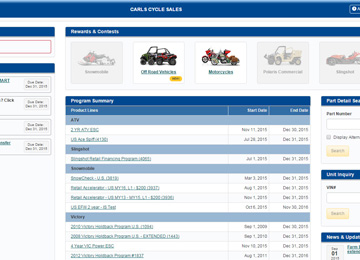
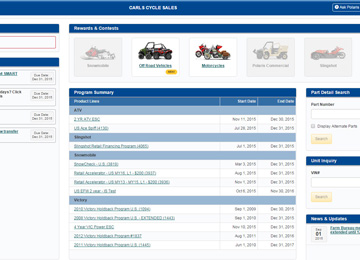
Add Medtronic Global Conventions to portfolio

diff --git a/app/index.html b/app/index.html
@@ -172,11 +172,11 @@
                                     <i class="fa fa-plus fa-3x"></i>
                                 </div>
                             </div>
-                            <img src="img/portfolio/treehouse.png" class="img-responsive" alt="">
+                            <img src="img/portfolio/global-conventions-home-desktop-preview.jpg" class="img-responsive" alt="">
                         </a>
                         <div class="portfolio-caption">
-                            <h5>Treehouse</h5>
-                            <p class="text-muted">Website Design</p>
+                            <h5>Global Conventions - Event Registration</h5>
+                            <p class="text-muted">Web Application</p>
                         </div>
                     </div>
                 </div>
@@ -523,6 +523,7 @@
                             <h2>PARTS, GARMENTS &amp; ACCESSORIES (PG&amp;A) </h2>
                             <p class="item-intro text-muted">Dealer-facing web application.</p>
                             <img class="img-responsive img-centered img-detailed" src="img/portfolio/pga-order-by-profile-page-2.jpg" alt="">
+                            <img class="img-responsive img-centered img-detailed" src="img/portfolio/pga-review-your-order-page-3.jpg" alt="">
                             <div class="row">
                                 <div class="col-md-12">
                                     <img class="img-responsive pull-right" src="img/portfolio/pga-order-by-profile-page-2-tablet.jpg" alt="">
@@ -555,11 +556,20 @@
                     <div class="col-lg-8 col-lg-offset-2">
                         <div class="modal-body">
                             <!-- Project Details Go Here -->
-                            <h2>Project Name</h2>
+                            <h2>Global Conventions - Event Registration</h2>
                             <p class="item-intro text-muted">Lorem ipsum dolor sit amet consectetur.</p>
-                            <img class="img-responsive img-centered" src="img/portfolio/treehouse-preview.png" alt="">
-                            <p>Treehouse is a free PSD web template built by <a href="https://www.behance.net/MathavanJaya">Mathavan Jaya</a>. This is bright and spacious design perfect for people or startup companies looking to showcase their apps or other projects.</p>
-                            <p>You can download the PSD template in this portfolio sample item at <a href="http://freebiesxpress.com/gallery/treehouse-free-psd-web-template/">FreebiesXpress.com</a>.</p>
+                            <img class="img-responsive img-centered img-detailed" src="img/portfolio/global-conventions-home-desktop.jpg" alt="">
+                            <img class="img-responsive img-centered" src="img/portfolio/global-conventions-home-ipad-iphone.jpg" alt="">
+                            <div class="row">
+                                <div class="col-md-12">
+                                    <p>Internal web application used by over 46,000 Medtronic employees worldwide to register for conventions and events. </p>
+                                    <ul class="list-inline">
+                                        <!-- <li>Date: July 2014</li> -->
+                                        <li>Client: Medtronic</li>
+                                        <li>Category: Web Application</li>
+                                    </ul>
+                                </div>
+                            </div>
                             <button type="button" class="btn btn-primary" data-dismiss="modal"><i class="fa fa-times"></i> Close Project</button>
                         </div>
                     </div>

diff --git a/app/less/agency.less b/app/less/agency.less
@@ -58,7 +58,7 @@ h1, h2, h3, h4, h5, h6 {
 }
 
 .bg-darkest-gray {
-	background-color: @gray-darkest;
+	background-color: @secondary-color;
 }
 
 // Restyled Primary Buttons
@@ -81,7 +81,7 @@ h1, h2, h3, h4, h5, h6 {
 // Custom Navigation Bar
 
 .navbar-default {
-	background-color: @gray-darkest;
+	background-color: @secondary-color;
 	border-color: transparent;
 	.navbar-brand {
 		color: @brand-primary;
@@ -94,7 +94,7 @@ h1, h2, h3, h4, h5, h6 {
         }
 	}
 	.navbar-collapse {
-		border-color: fade(white, 2%);
+		border-color: fade(@white, 2%);
 	}
 	.navbar-toggle {
 		background-color: @brand-primary;
@@ -153,7 +153,7 @@ h1, h2, h3, h4, h5, h6 {
 		}
     }
     .navbar-default.navbar-shrink {
-    	background-color: fade(@gray-darkest, 75%);
+    	background-color: fade(@secondary-color, 75%);
         padding: 10px 0;
 		.navbar-brand {
 	        font-size: 1.5em;
@@ -251,6 +251,8 @@ section {
         margin: 0 0 15px;
         right: 0;
         border: 1px solid @portfolio-preview-border;
+        border-radius:14px;
+        overflow:hidden;
         .portfolio-link {
             display: block;
             position: relative;
@@ -265,6 +267,8 @@ section {
                 transition: all ease 0.5s;
                 -webkit-transition: all ease 0.5s;
                 -moz-transition: all ease 0.5s;
+                border-top-left-radius: 14px;
+    			border-top-right-radius: 14px;
                 &:hover {
                     opacity: 1;
                 }
@@ -290,18 +294,20 @@ section {
         .portfolio-caption {
         	max-width: 400px;
         	margin: 0 auto;
-        	background-color: white;
+        	background-color: @heading-color;
         	text-align: center;
         	padding: 25px;
         	h5 {
         		text-transform: none;
         		margin: 0;
+        		color: #ffffff;
         	}
         	p {
         		.serif-font;
         		font-style: italic;
         		font-size: 12px;
         		margin: 0;
+        		color: fade(@white, 75%);
         	}
         }
     }
@@ -531,7 +537,7 @@ aside.clients {
 // Contact Section
 
 section#contact {
-	background-color: @gray-darkest;
+	background-color: @secondary-color;
 	background-image: url('../img/map-image.png');
 	background-position: center;
 	background-repeat: no-repeat;
@@ -605,7 +611,7 @@ ul.social-buttons {
 	li {
 		a {
 			display: block;
-			background-color: @gray-darkest;
+			background-color: @secondary-color;
 			height: 40px;
 			width: 40px;
 			border-radius: 100%;
@@ -681,7 +687,7 @@ ul.social-buttons {
             height:75px;
             width:1px;
             margin-left:35px;
-            background-color:@gray-darkest;
+            background-color:@secondary-color;
             transform: rotate(45deg);
             -ms-transform: rotate(45deg);
             /* IE 9 */
@@ -691,7 +697,7 @@ ul.social-buttons {
             .rl {
                 height:75px;
                 width:1px;
-                background-color:@gray-darkest;
+                background-color:@secondary-color;
                 transform: rotate(90deg);
                 -ms-transform: rotate(90deg);
                 /* IE 9 */

diff --git a/app/less/variables.less b/app/less/variables.less
@@ -1,9 +1,11 @@
 // Variables
 
-@brand-primary: #fed136;
+@brand-primary: #ff862d;
 @brand-danger: #e74c3c;
-@gray-darkest: #222;
+@secondary-color: #142535;
+@heading-color: #26343f;
 @gray: #777;
+@white:#fff;
 @gray-lighter: #f7f7f7;
 @placeholder-text: #bbbbbb;
 
